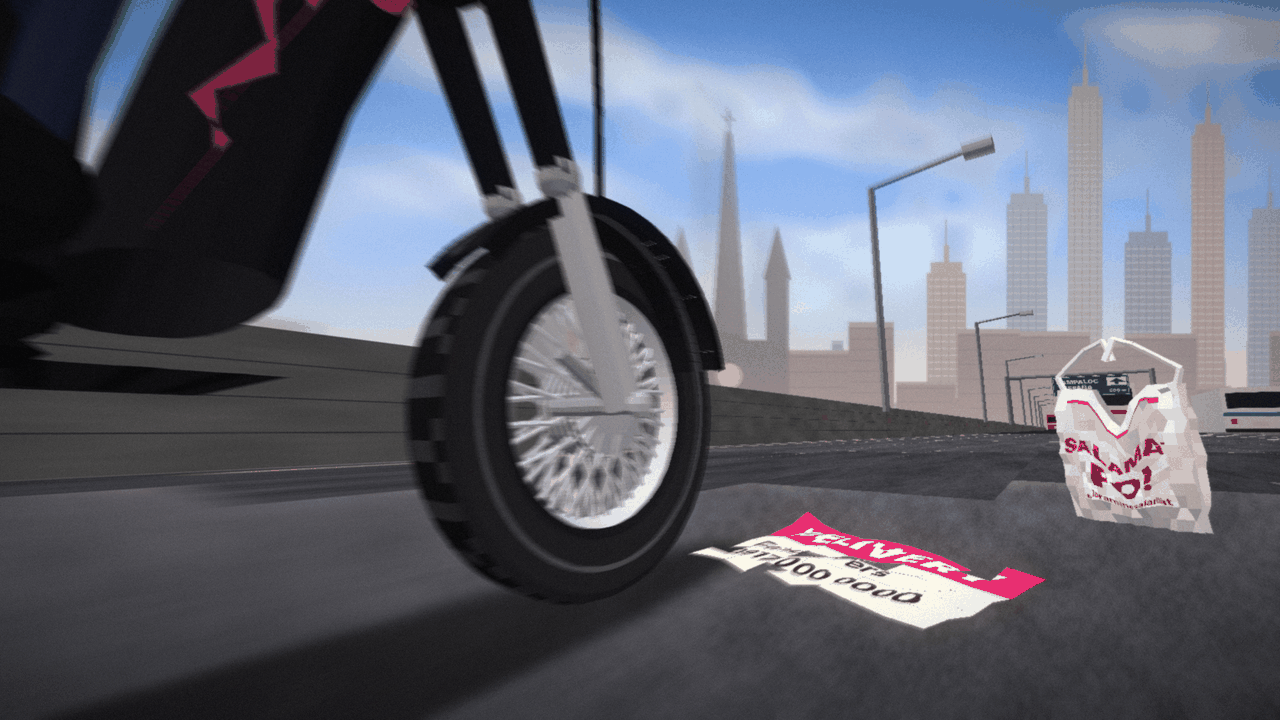
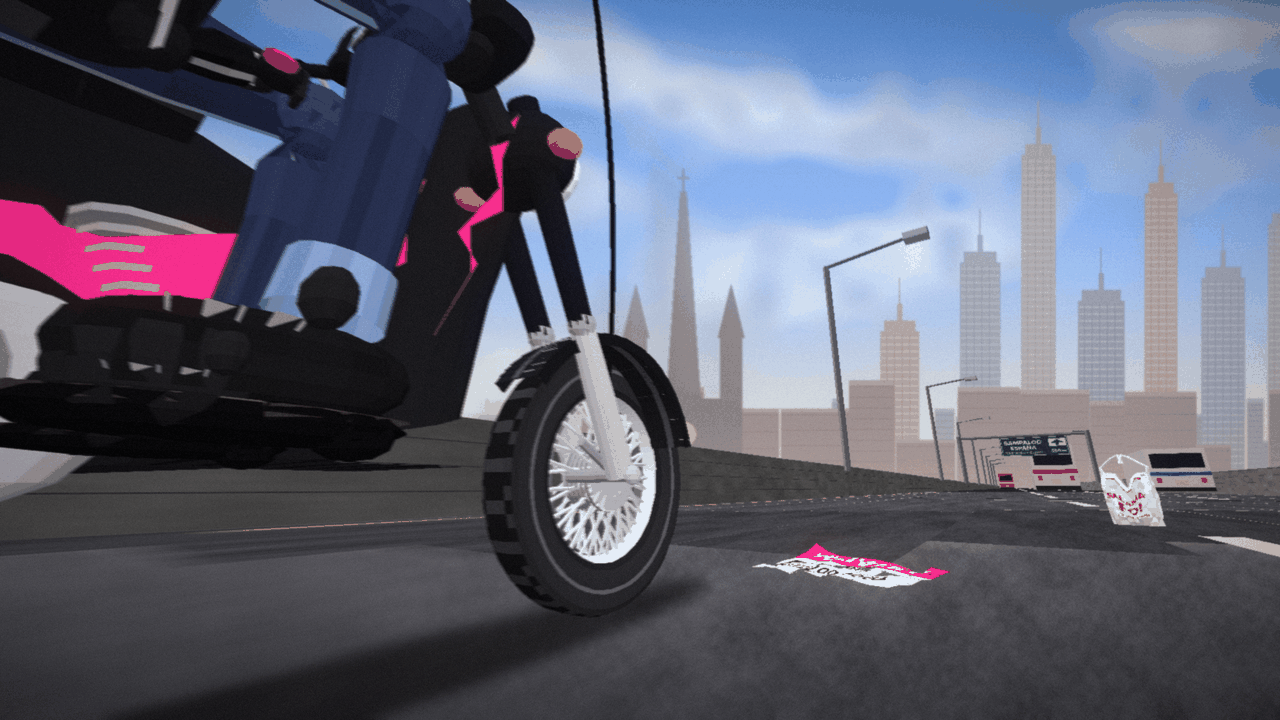
feat(art): give Peter in intro frame 1 shape and depth: creased denim, a detailed boot, a nylon jacket
Claude-Session: https://claude.ai/code/session_018qtt7uTeVSGsnvQanUjafP

diff --git a/tools/bike_parts.py b/tools/bike_parts.py
@@ -317,19 +317,77 @@ def scooter_body(scene, show_leg=True, layer=5):
         rider_leg(scene, 1, layer + 2)
 
 
+def _tone(color, factor):
+    return tuple(int(max(0, min(255, c * factor))) for c in color)
+
+
+def fabric(base, seed=1, grain=0.05, creases=(), crease_depth=0.2, stripes=(), stripe_color=None, panel=None):
+    """A shading function for `loft`: the base colour with a little grain from quad to quad, darker bands
+    where the cloth creases (`creases` lists ring rows k), light thin lines (`stripes` lists columns i)
+    for seams or reflective tape, and `panel` (a dict column -> factor) for darker side panels."""
+    rng = np.random.default_rng(seed)
+    noise = rng.normal(0, grain, (64, 64))
+
+    def shade(k, i):
+        f = 1.0 + float(noise[k % 64, i % 64])
+        if k in creases:
+            f -= crease_depth * (1.0 if (i * 7 + k) % 3 else 0.5)
+        if k - 1 in creases or k + 1 in creases:
+            f -= crease_depth * 0.35
+        if panel and i in panel:
+            f *= panel[i]
+        color = _tone(base, f)
+        if i in stripes and stripe_color is not None:
+            color = stripe_color
+        return color
+
+    return shade
+
+
+def tube_along(scene, points, radii, color, layer, n=18, e=0.9, squash=1.0, shade=None, caps=(True, True)):
+    """A smooth limb or sleeve through several points, with its own radius at each (so a knee swells and an ankle
+    narrows), skinned in one piece. `squash` flattens its cross-section a little (a thigh is wider than deep)."""
+    rings = []
+    pts = [np.array(p, float) for p in points]
+    for idx, centre in enumerate(pts):
+        if idx == 0:
+            d = pts[1] - pts[0]
+        elif idx == len(pts) - 1:
+            d = pts[-1] - pts[-2]
+        else:
+            d = pts[idx + 1] - pts[idx - 1]
+        d = d / np.linalg.norm(d)
+        up = np.array([0.0, 1.0, 0.0]) if abs(d[1]) < 0.9 else np.array([1.0, 0.0, 0.0])
+        u = np.cross(d, up)
+        u /= np.linalg.norm(u)
+        v = np.cross(d, u)
+        rings.append(ring_points(centre, u, v, radii[idx], radii[idx] * squash, n, e))
+    loft(scene, rings, color, layer, caps=caps, shade=shade)
+
+
 def rider_leg(scene, sgn, layer):
-    """Peter's leg: jeans thigh and shin, a knee, and a boot with a sole, laces and a heel."""
+    """Peter's leg: jeans from hip to ankle, drawn through a swelling at the knee with creases behind it and
+    stacked at the ankle, a stitched outer seam, a rolled turn-up cuff, and a boot with a rounded toe cap, a
+    darker sole, a heel, a welt line and crossed laces."""
     x = sgn * 0.2
-    hip, knee, ankle = (x - sgn * 0.02, 0.96, -1.06), (x, 1.0, -0.64), (x, 0.47, -0.7)
-    limb(scene, hip, knee, 0.088, 0.066, JEANS, layer, n=16)
-    joint(scene, knee, 0.068, JEANS, layer, 14, 8)
-    limb(scene, knee, ankle, 0.064, 0.048, JEANS, layer, n=16)
-    # The boot: a rounded shoe with a darker sole and a pale lace strip.
-    ellipsoid(scene, (x, 0.4, -0.76), (0.065, 0.06, 0.15), BOOT, layer, n=16, m=10, e=0.85)
-    ellipsoid(scene, (x, 0.35, -0.78), (0.07, 0.025, 0.16), (14, 14, 16), layer, n=16, m=6, e=0.7)
-    for lz in np.arange(-0.69, -0.86, -0.035):
-        scene.face([(x - 0.02, 0.455, lz), (x + 0.02, 0.455, lz), (x + 0.02, 0.455, lz - 0.012), (x - 0.02, 0.455, lz - 0.012)], (200, 200, 204), layer=layer + 1, two_sided=True)
-    limb(scene, (x, 0.5, -0.7), (x, 0.44, -0.71), 0.052, 0.058, (36, 36, 40), layer, n=14, bulge=1.0)   # the boot cuff
+    hip, thigh, knee, shin, ankle = (x - sgn * 0.02, 0.97, -1.08), (x - sgn * 0.005, 0.99, -0.88), (x, 1.0, -0.66), (x, 0.74, -0.68), (x, 0.5, -0.71)
+    denim = fabric(JEANS, seed=5 if sgn > 0 else 6, grain=0.045, creases=(2, 4, 7), crease_depth=0.22, stripes=(3,), stripe_color=(150, 176, 214))
+    tube_along(scene, [hip, thigh, knee, (x, 0.86, -0.67), shin, ankle], [0.093, 0.087, 0.07, 0.066, 0.056, 0.052], JEANS, layer, n=18, squash=0.92, shade=denim, caps=(True, False))
+    joint(scene, knee, 0.074, _tone(JEANS, 1.1), layer, 14, 8)
+    # The turn-up cuff: a paler band that is a little wider than the leg.
+    tube_along(scene, [(x, 0.54, -0.705), (x, 0.47, -0.715)], [0.061, 0.063], (120, 142, 188), layer, n=18, shade=fabric((120, 142, 188), seed=9, grain=0.04), caps=(False, False))
+    # The boot: leather with a toe cap, a heel block, a sole with a lighter welt, a tongue and laces.
+    leather = fabric(BOOT, seed=11, grain=0.05, creases=(4,), crease_depth=0.12)
+    ellipsoid(scene, (x, 0.405, -0.765), (0.068, 0.058, 0.155), BOOT, layer, n=18, m=10, e=0.82, shade=leather)
+    ellipsoid(scene, (x, 0.385, -0.84), (0.062, 0.05, 0.075), _tone(BOOT, 1.25), layer, n=14, m=8, e=0.8)   # the toe cap, a little glossier
+    ellipsoid(scene, (x, 0.345, -0.775), (0.074, 0.022, 0.165), (10, 10, 12), layer, n=18, m=6, e=0.7)       # the sole
+    ellipsoid(scene, (x, 0.357, -0.775), (0.076, 0.006, 0.168), (90, 78, 66), layer, n=18, m=4, e=0.7)       # the welt
+    ellipsoid(scene, (x, 0.34, -0.665), (0.06, 0.03, 0.04), (12, 12, 14), layer, n=12, m=6, e=0.8)           # the heel
+    ellipsoid(scene, (x, 0.5, -0.715), (0.045, 0.04, 0.03), _tone(BOOT, 1.4), layer + 1, n=10, m=5)         # the tongue
+    for li, lz in enumerate(np.arange(-0.73, -0.86, -0.028)):
+        flip = 1 if li % 2 == 0 else -1
+        scene.face([(x - 0.032, 0.46 - 0.002 * li, lz), (x + 0.032, 0.46 - 0.002 * li, lz - 0.01 * flip), (x + 0.032, 0.462 - 0.002 * li, lz - 0.014), (x - 0.032, 0.462 - 0.002 * li, lz - 0.004)],
+                   (214, 214, 218), layer=layer + 1, two_sided=True)
 
 
 # ---------------------------------------------------------------- Peter, seen from behind and above
@@ -341,20 +399,22 @@ def rider(scene, layer=7, left_only=False):
     lean = 0.16   # how far the chest leans forward per metre of height
     def back(y):
         return -1.0 + lean * (y - 0.95)
-    # Torso: a V-tapered jacket, wider at the shoulders, with collar and hem.
-    stations = ((0.93, 0.19, 0.13), (1.06, 0.2, 0.14), (1.2, 0.225, 0.15), (1.33, 0.255, 0.145), (1.41, 0.235, 0.12), (1.45, 0.13, 0.1))
+    # Torso: a V-tapered nylon jacket with a zip down the back seam, a reflective band, a ribbed hem and
+    # a collar, creased where it bunches at the waist.
+    stations = ((0.9, 0.2, 0.135), (0.95, 0.205, 0.138), (1.06, 0.2, 0.14), (1.2, 0.225, 0.15), (1.33, 0.255, 0.145), (1.41, 0.235, 0.12), (1.45, 0.13, 0.1))
     rings = [ring_points((0, y, back(y)), (1, 0, 0), (0, 0, 1), rx, rz, 24, 0.85) for y, rx, rz in stations]
+    nylon = fabric(JACKET, seed=21, grain=0.035, creases=(1, 2), crease_depth=0.25, stripes=(0, 12), stripe_color=(70, 70, 78), panel={5: 0.82, 6: 0.82, 17: 0.82, 18: 0.82})
 
     def shade(k, i):
-        if k == 1:   # a reflective band round the lower back
-            return (196, 200, 206)
-        if k == 0 and i % 3 == 0:
-            return (18, 18, 20)
-        return None
+        if k == 3 and i % 24 != 99:   # a reflective band round the back
+            return (206, 210, 216) if i % 2 == 0 else (178, 182, 190)
+        if k == 0:
+            return _tone(JACKET, 1.5) if i % 2 == 0 else _tone(JACKET, 1.2)   # the ribbed hem
+        return nylon(k, i)
 
     loft(scene, rings, JACKET, layer, caps=(True, False), shade=shade)
     # The collar and the neck.
-    limb(scene, (0, 1.44, back(1.44)), (0, 1.52, back(1.52) - 0.01), 0.08, 0.07, (32, 32, 36), layer, n=18)
+    limb(scene, (0, 1.44, back(1.44)), (0, 1.52, back(1.52) - 0.01), 0.08, 0.07, _tone(JACKET, 1.4), layer, n=18)
     limb(scene, (0, 1.5, back(1.5)), (0, 1.56, back(1.56) - 0.01), 0.052, 0.05, SKIN, layer, n=14)
     # Helmet: a glossy pink shell, a pale racing stripe, a black rubber rim and a rear vent.
     head = (0, 1.66, back(1.66) - 0.01)
@@ -364,12 +424,15 @@ def rider(scene, layer=7, left_only=False):
         shoulder = (sgn * 0.255, 1.36, back(1.36) + 0.0)
         elbow = (sgn * 0.37, 1.12, -0.9)
         wrist = (sgn * 0.435, 1.225, -0.72)
-        joint(scene, shoulder, 0.07, JACKET, layer + 1, 14, 8)
-        limb(scene, shoulder, elbow, 0.064, 0.052, JACKET, layer + 1, n=16)
-        joint(scene, elbow, 0.052, JACKET, layer + 1, 12, 8)
-        limb(scene, elbow, wrist, 0.05, 0.04, JACKET, layer + 1, n=16)
-        cuff_a = np.array(elbow) + (np.array(wrist) - np.array(elbow)) * 0.82
-        limb(scene, cuff_a, wrist, 0.043, 0.043, (206, 210, 216), layer + 1, n=16, bulge=1.0)
+        joint(scene, shoulder, 0.075, JACKET, layer + 1, 16, 8)
+        sleeve = fabric(JACKET, seed=31 + sgn, grain=0.035, creases=(2, 3), crease_depth=0.26, stripes=(5,), stripe_color=(190, 194, 200))
+        mid_up = tuple((np.array(shoulder) + np.array(elbow)) / 2.0 + np.array([0.012 * sgn, 0.0, 0.0]))
+        mid_lo = tuple((np.array(elbow) + np.array(wrist)) / 2.0 + np.array([0.01 * sgn, 0.012, 0.0]))
+        tube_along(scene, [shoulder, mid_up, elbow, mid_lo, tuple(np.array(elbow) + (np.array(wrist) - np.array(elbow)) * 0.8)],
+                   [0.066, 0.062, 0.056, 0.05, 0.043], JACKET, layer + 1, n=16, shade=sleeve, caps=(False, False))
+        joint(scene, elbow, 0.058, _tone(JACKET, 1.05), layer + 1, 12, 8)
+        cuff_a = np.array(elbow) + (np.array(wrist) - np.array(elbow)) * 0.78
+        tube_along(scene, [tuple(cuff_a), wrist], [0.046, 0.044], (30, 30, 34), layer + 1, n=16, shade=fabric((30, 30, 34), seed=41, grain=0.05, stripes=(0, 8), stripe_color=(206, 210, 216)), caps=(False, True))   # an elastic cuff with a reflective tape
         glove(scene, sgn, layer + 2)
     rider_leg(scene, -1, layer)
     rider_leg(scene, 1, layer)

diff --git a/tools/intro_frames.py b/tools/intro_frames.py
@@ -431,9 +431,9 @@ def vehicle_rear(w, h, body, stripe, seed):
 
 def build_skyway(size):
     w, h = size
-    cam_x, cam_z = 0.62, -0.62
-    camera = s3.Camera((cam_x, 0.27, cam_z), -40.0, 8.0, 72.0, size)
-    vp = camera.project((cam_x, 0.27, 100000.0))
+    cam_x, cam_z = 0.82, -0.92
+    camera = s3.Camera((cam_x, 0.28, cam_z), -37.0, 15.0, 74.0, size)
+    vp = camera.project((cam_x, 0.28, 100000.0))
     horizon_y, vp_x = int(vp[1]), int(vp[0])
 
     # ---- the backdrop: sky, clouds, Manila, and plain road colour below the horizon
@@ -520,7 +520,10 @@ def build_skyway(size):
 
     wheel_pass = s3.Scene(camera, ambient=(150, 156, 174))
     wheel_pass.light((-700, 900, -900), (255, 226, 184), 1.15e6)
-    wheel_pass.light((900, 400, -500), (255, 232, 214), 5.0e5)   # a cooler light from the sky side so the black body keeps its shape
+    wheel_pass.light((900, 400, -500), (255, 232, 214), 5.0e5)
+    # Soft low fill from the road side so Peter's denim, jacket and boot show their shape and folds, not a dark blob.
+    wheel_pass.light((2.6, 0.9, -1.5), (255, 236, 214), 2.4)
+    wheel_pass.light((1.6, 2.4, -0.6), (230, 238, 255), 1.8)   # a cooler light from the sky side so the black body keeps its shape
     bp.wheel(wheel_pass, 0.0, 0.0, side=1)
     bp.wheel(wheel_pass, 0.0, -1.25, side=1, front=False)
     bp.scooter_body(wheel_pass, show_leg=False)
@@ -533,7 +536,7 @@ def build_skyway(size):
     sando_bag(wheel_pass, bag_at, 205, 4.0, scale=0.85)
     out = wheel_pass.render(scene_bg)
     # Slight motion blur over everything, streaking away from the vanishing point: the bike is moving fast.
-    return radial_blur(out, (vp_x, horizon_y), 0.016, 12, 0.08)
+    return radial_blur(out, (vp_x, horizon_y), 0.006, 10, 0.12)
 
 
 def draw_skyway(size=SIZE):

diff --git a/HANDOFF.md b/HANDOFF.md
@@ -169,6 +169,13 @@ Each is a tagged release on `main`. `git log --oneline` and `git tag -l` show th
 
 ## Where we stopped
 
+- **Peter in intro frame 1 has depth now:** the camera sits a little farther back and higher (about 1.2 m
+  from the wheel, pitched up) so his denim leg, boot, jacket sleeve and glove are in view. His parts are built
+  in `tools/bike_parts.py` with `tube_along` (limbs through several points with their own radii: knee swell,
+  ankle taper) and `fabric` shading (grain, creases at the knee and ankle, a stitched seam, a turn-up cuff,
+  a boot with toe cap, welt, heel and laces; a nylon jacket with a reflective band, a ribbed hem and elastic
+  cuffs). Two soft fill lights light him from the road side, and the overall motion blur is lighter (0.006)
+  so he stays crisp. The 3D rider is built in frame 1 only.
 - **Shift Mode carousel (branch claude/shift-carousel, from your sketch):** Story Mode is now Slot -> Load /
   Delete (no Continue-only screen). Shift Mode is a story carousel (`scripts/start_screen.gd`: middle card in
   front, side cards smaller and dimmed; swipe or tap to move, tap the middle to choose, dots below, heading
